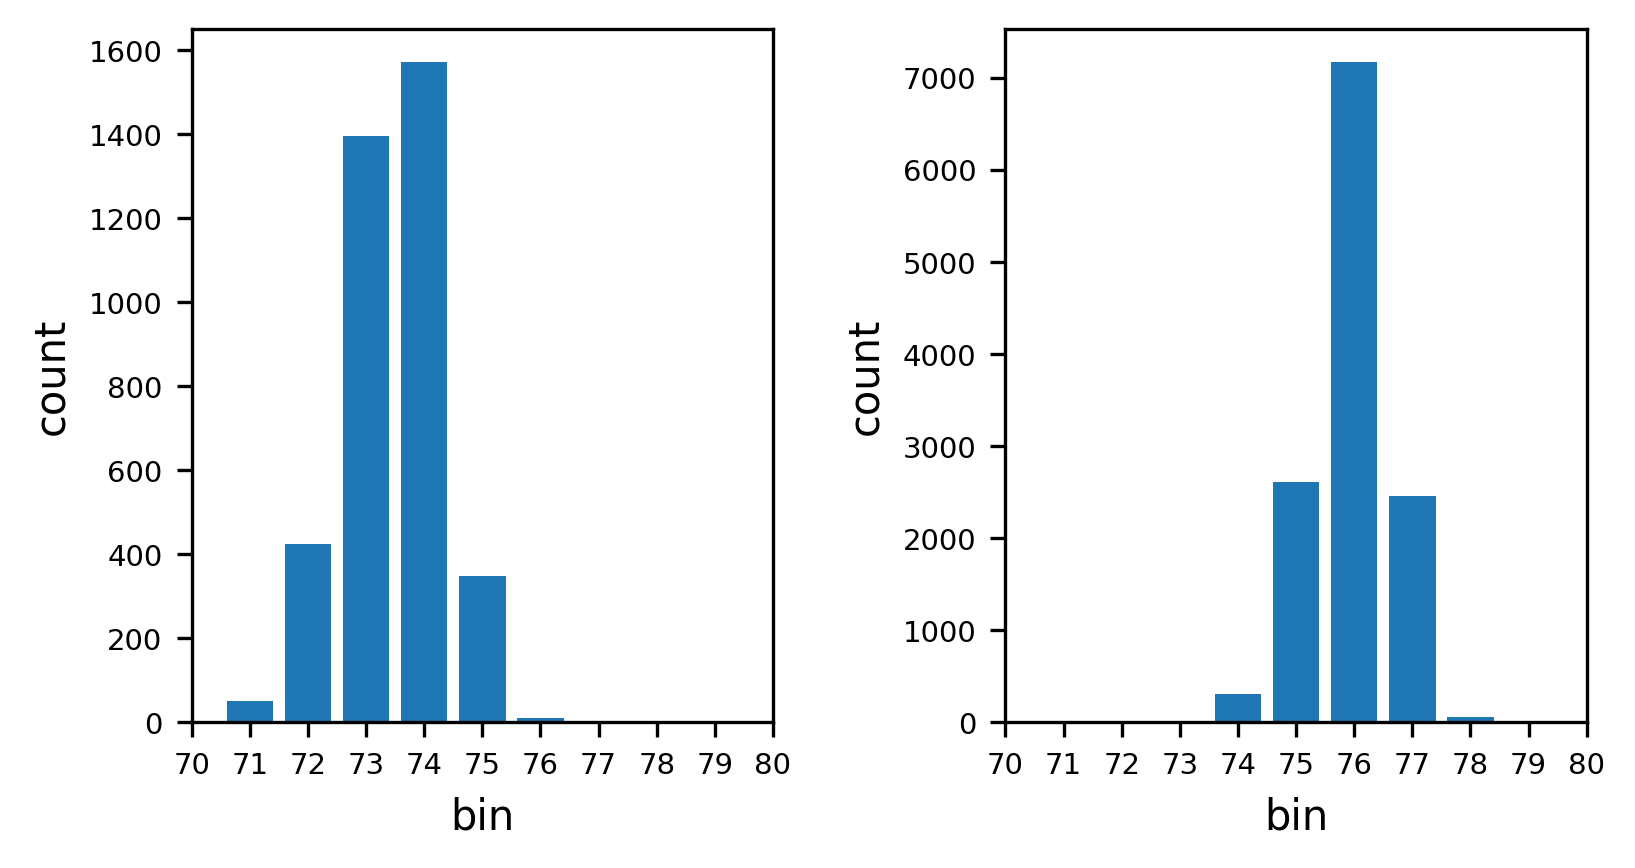
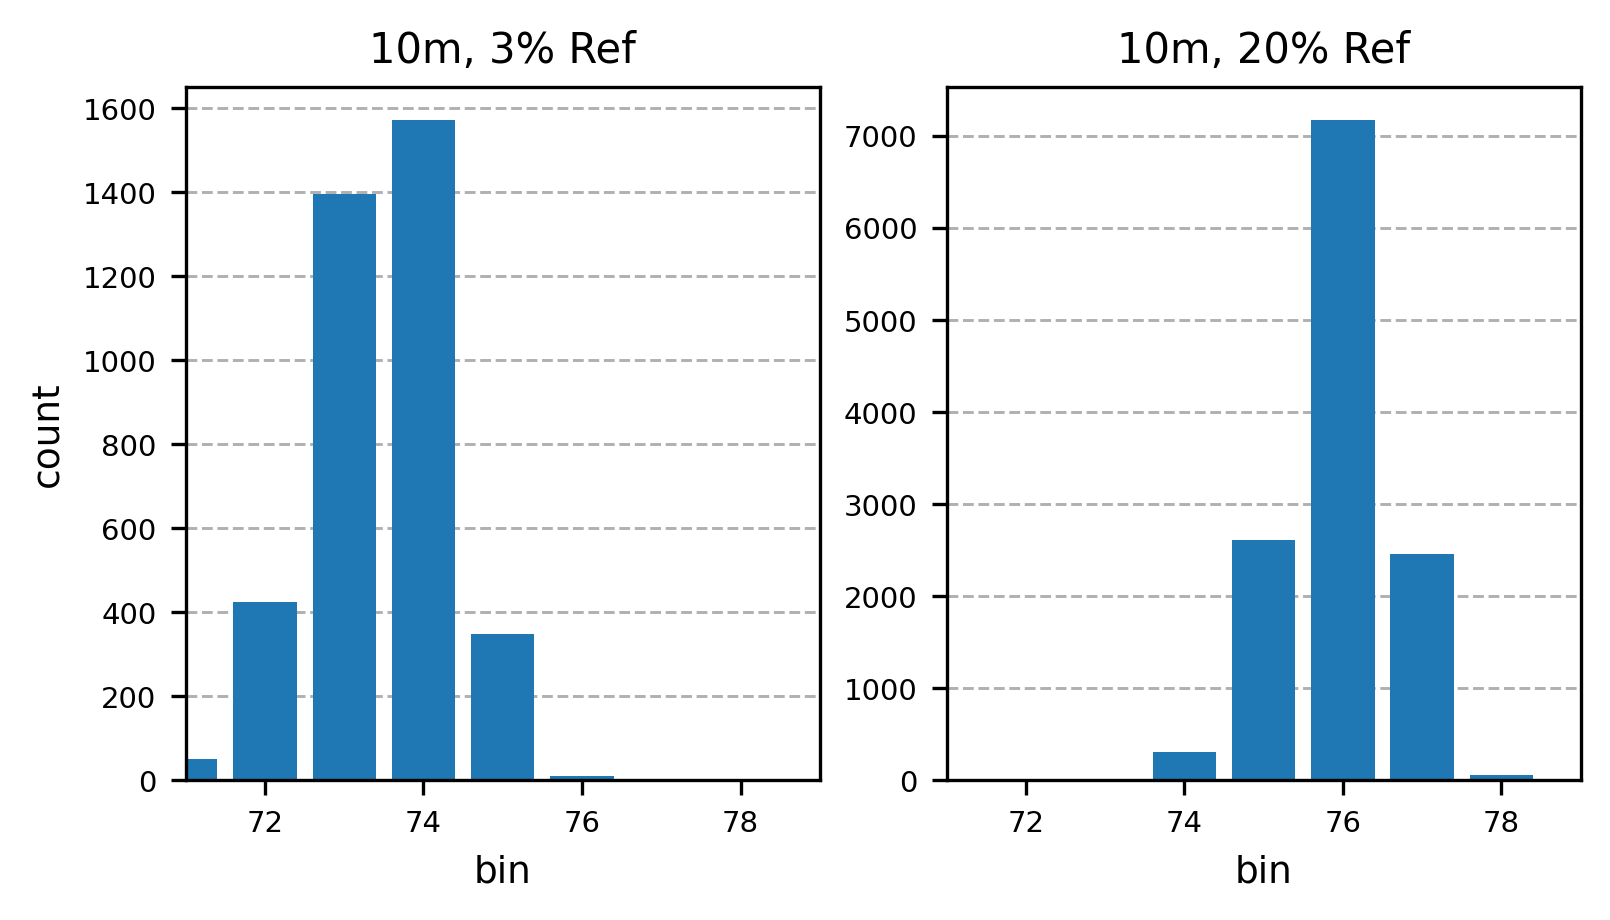
weighted standard deviation is now obtainable.

Changed region(s): [[0.0, 0.0311, 0.9938, 0.9643], [0.4658, 0.7154, 0.6211, 0.7776]]

diff --git a/sony_poc_bin_fluctuation.py b/sony_poc_bin_fluctuation.py
@@ -1,7 +1,7 @@
 import cv2, imageio
 import matplotlib
 import matplotlib.pyplot as plt
-from matplotlib.ticker import FuncFormatter, MaxNLocator
+from matplotlib.ticker import FuncFormatter, MaxNLocator, FormatStrFormatter, MultipleLocator
 from scipy.constants import c
 import numpy as np
 import open3d as o3d
@@ -117,58 +117,91 @@ class BinToDepth:
 
         return extra_axis
 
-    def _cntplots(self, afs, name) -> None:
+    def _cntplots(self, afs, name, normalize=False) -> None:
 
         ncols = len(afs)
 
-        inset_locs = []
-
-        if ncols == 2:
-            inset_locs.append([0.37, 0.6, .1, .1])
-            inset_locs.append([0.78, 0.6, .1, .1])
-
-        elif ncols == 4:
-
-            inset_locs.append([0.15, 0.6, .1, .1])
-            inset_locs.append([0.40, 0.6, .1, .1])
-            inset_locs.append([0.65, 0.6, .1, .1])
-            inset_locs.append([0.80, 0.6, .1, .1])
-
-        fig, axes = plt.subplots(nrows=1, ncols=ncols, figsize=(ncols*3,3), frameon=True)
+        fig, axes = plt.subplots(nrows=1, ncols=ncols, figsize=(ncols*3,3), frameon=True, sharey=False)
 
         min_xlims = []
         max_xlims = []
 
+        min_ylims = []
+        max_ylims = []
+
+        reflec = ['3%', '20%', '65%', '95%']
+        lb = lambda x: x-3
+        ub = lambda x: x+3
+
         for af in afs:
+
             avg = af[0]
             var = af[1]
             std = af[2]
             med = af[3]
             mfe = af[4]
+            cnt = af[5]
 
-            min_xlims.append(mfe-4)
-            max_xlims.append(mfe+4)
+            min_xlims.append(lb(mfe))
+            max_xlims.append(ub(mfe))
+
+            min_ylims.append(np.min(cnt))
+            max_ylims.append(np.max(cnt))
 
         min_xlim = np.min(np.array(min_xlims))
         max_xlim = np.max(np.array(max_xlims))
 
-        for col, af in enumerate(afs):
+        min_ylim = np.min(np.array(min_ylims))
+        max_ylim = np.max(np.array(max_ylims))
 
+        #axes[0].set_ylim(min_ylim, max_ylim)
+
+        for col, af in enumerate(afs):
+            mfe = af[4]
             x = np.arange(af[-1].shape[0])
-            axes[col].bar(x, af[-1])
-            mfe = af[-2]
-            axes[col].set_xlim(min_xlim, max_xlim)
+            weights = af[-1][lb(mfe):ub(mfe)]
+            wavg = np.average(x[lb(mfe):ub(mfe)], weights=weights)
+            wdis = wavg * self.btd
+            #wavg = mfe
+            wvar = np.average((x[lb(mfe):ub(mfe)]-wavg)**2, weights=weights)
+            wstd = np.sqrt(wvar)
+            errd = wstd * self.btd
+
+            info = f'{self.mode} {name} {reflec[col]:>3s} {wavg:>6.2f} {wvar:.2f} {wstd:.2f} {wdis:.2f} {errd:.2f}'
+            print(info)
+
+            if normalize == False: 
+                axes[0].set_ylabel('count', fontsize=9)
+                axes[col].bar(x, af[-1], zorder=2)
+            else:
+                axes[0].set_ylabel('count ratio', fontsize=9)
+                axes[col].bar(x, af[-1]/np.max(af[-1]), zorder=2)
+
+            #mfe = af[-2]
+            axes[col].grid(axis='y', lw=0.7, ls='--', zorder=1)
             #axes[col].set_xlim(mfe-3, mfe+3)
-            axes[col].xaxis.set_major_locator(MaxNLocator(integer=True))
+            #axes[col].xaxis.set_major_locator(MaxNLocator(integer=True))
+            #axes[col].xaxis.set_major_formatter(FormatStrFormatter('%.2f'))
+            #axes[col].xaxis.set_major_locator(MultipleLocator(0.15))
+            #xticks = axes[col].get_xticks()
+            #axes[col].set_xticks(x)
+            #xticklabels = ['%5.2f' %F for F in x*self.btd]
+            #axes[col].set_xticklabels(xticklabels)
             axes[col].tick_params(axis='both', which='major', labelsize=7)
-            axes[col].set_xlabel('bin')
-            axes[col].set_ylabel('count')
+            axes[col].set_xlabel('bin', fontsize=9)
+            #axes[col].set_xlabel('Distance (m)', fontsize=9)
+            axes[col].set_title(f'{name}, {reflec[col]} Ref', fontsize=10)
+            axes[col].set_xlim(min_xlim, max_xlim)
+            #axes[col].bar_label(bar, labels=[f'{(bin*self.btd):.2f} m' for bin in x], label_type='edge', fontsize=5)
             #inset = fig.add_axes(inset_locs[col], facecolor=None)
             #inset.bar(x, af[-1])
             #inset.tick_params(axis='both', which='major', labelsize=3)
 
-        fig.subplots_adjust(wspace=0.4)
-        fig.savefig(f'{self.mode}_cnt_{name}.png', dpi=300, bbox_inches='tight', transparent=True)
+        #fig.subplots_adjust(wspace=0.4)
+        if normalize == False:
+            fig.savefig(f'{self.mode}_cnt_{name}.png', dpi=300, bbox_inches='tight', transparent=True)
+        else:
+            fig.savefig(f'{self.mode}_cnt_{name}_normalized.png', dpi=300, bbox_inches='tight', transparent=True)
 
     def subplots(self) -> None:
 
@@ -227,9 +260,13 @@ class BinToDepth:
         afs_20m = [tg_20m_r03_af, tg_20m_r20_af, tg_20m_r65_af, tg_20m_r95_af]
         afs_35m = [tg_35m_r03_af, tg_35m_r20_af, tg_35m_r65_af, tg_35m_r95_af]
 
-        self._cntplots(afs_10m, '10m')
-        self._cntplots(afs_20m, '20m')
-        self._cntplots(afs_35m, '35m')
+        #self._cntplots(afs_10m, '10m')
+        #self._cntplots(afs_20m, '20m')
+        #self._cntplots(afs_35m, '35m')
+
+        self._cntplots(afs_10m, '10m', normalize=True)
+        self._cntplots(afs_20m, '20m', normalize=True)
+        self._cntplots(afs_35m, '35m', normalize=True)
 
         tg_10m_r03_mins, tg_10m_r03_maxs, tg_10m_r03_avgs, tg_10m_r03_mfes = tg_10m_r03_pf
         tg_10m_r20_mins, tg_10m_r20_maxs, tg_10m_r20_avgs, tg_10m_r20_mfes = tg_10m_r20_pf
